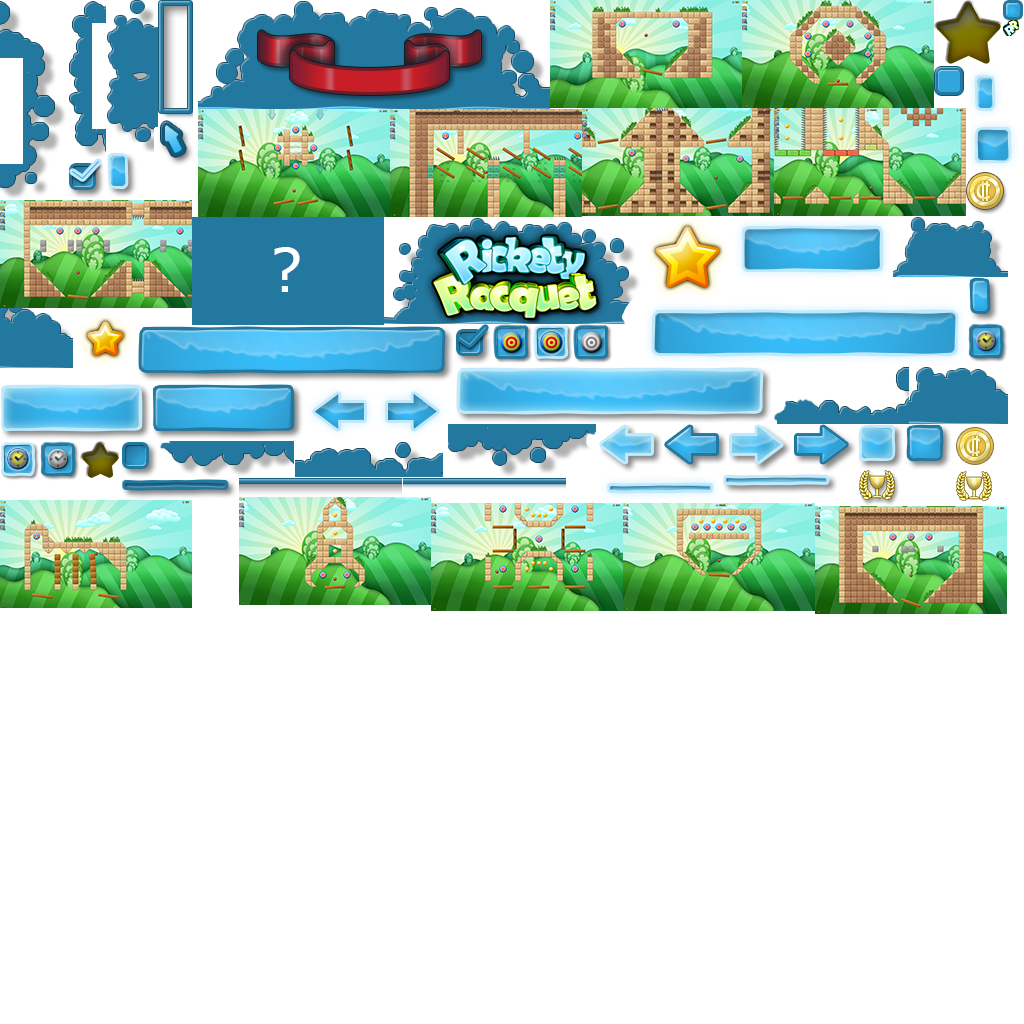
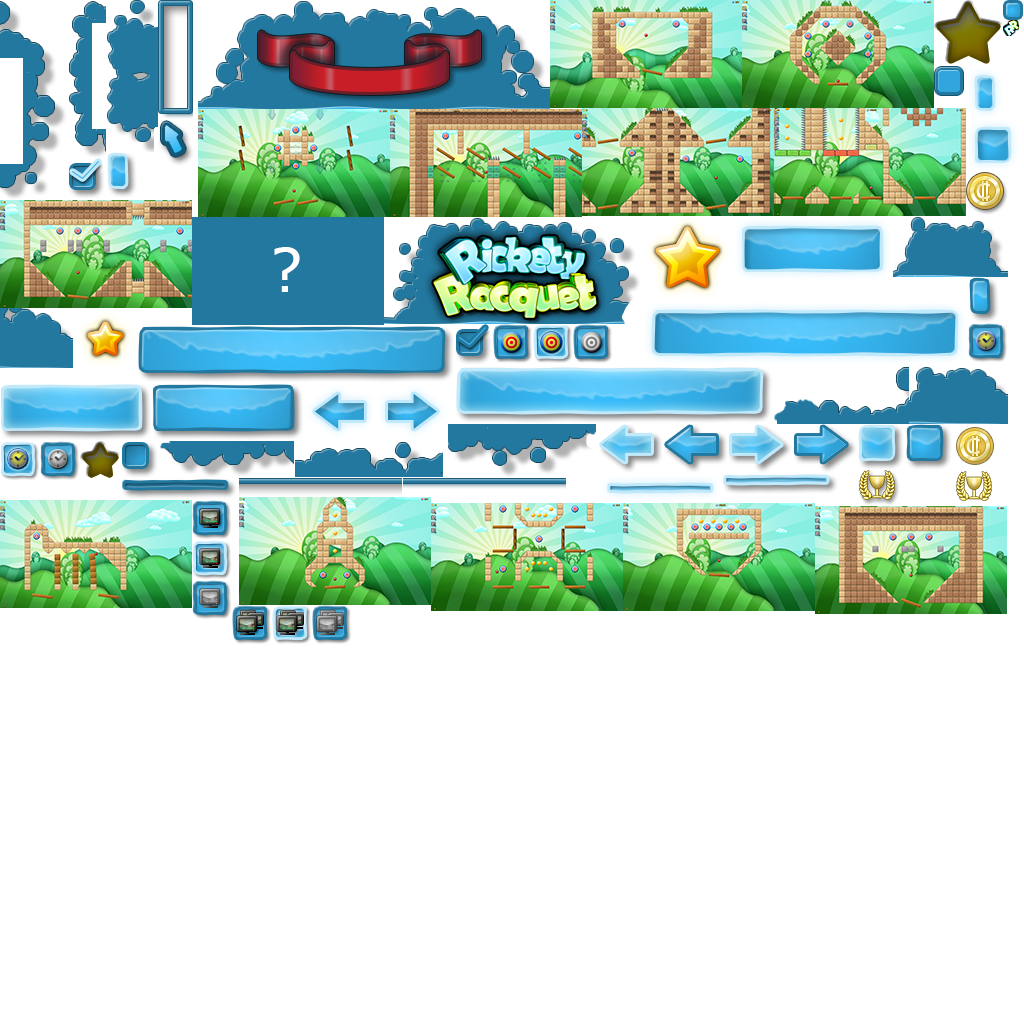
[248][Bug] New graphics for teeters, online/offline highscore using buttons similar to mode selection

Changed region(s): [[0.1875, 0.4688, 0.3438, 0.625]]

diff --git a/Source/FirstParty/AllInOneSolution/AllInOneSolution/Core/State/HighScoreState.cpp b/Source/FirstParty/AllInOneSolution/AllInOneSolution/Core/State/HighScoreState.cpp
@@ -43,7 +43,8 @@ void HighScoreState::onEnter(const EnterStateInformation* enterInformation, cons
     m_HUD.onEnter(m_highScoreStateInfo.m_level);
 
     m_onlineHighscore = false;
-    m_menu.getCheckbox(HighScoreMenu::CHECKBOX_GLOBAL_HIGHSCORE).setChecked(false);
+    m_menu.getCheckbox(HighScoreMenu::CHECKBOX_GLOBAL_HIGHSCORE).setChecked(m_onlineHighscore);
+    m_menu.getCheckbox(HighScoreMenu::CHECKBOX_LOCAL_HIGHSCORE).setChecked(!m_onlineHighscore);
 }
 
 StateChangeInformation HighScoreState::update(const float time)
@@ -77,12 +78,14 @@ StateChangeInformation HighScoreState::update(const float time)
 
     if(m_menu.getCheckbox(HighScoreMenu::CHECKBOX_GLOBAL_HIGHSCORE).getChecked() && !m_onlineHighscore)
     {
+        m_menu.getCheckbox(HighScoreMenu::CHECKBOX_LOCAL_HIGHSCORE).setChecked(false);
         m_onlineHighscore = true;
         clearHighScore();
         m_onlineHighscoreLoaderJob->run();
     }
-    else if(!m_menu.getCheckbox(HighScoreMenu::CHECKBOX_GLOBAL_HIGHSCORE).getChecked() && m_onlineHighscore)
+    else if(m_menu.getCheckbox(HighScoreMenu::CHECKBOX_LOCAL_HIGHSCORE).getChecked() && m_onlineHighscore)
     {
+        m_menu.getCheckbox(HighScoreMenu::CHECKBOX_GLOBAL_HIGHSCORE).setChecked(false);
         m_onlineHighscore = false;
         m_onlineHighscoreLoaderJob->reset();
         loadHighScore();

diff --git a/Source/FirstParty/AllInOneSolution/AllInOneSolution/Core/gui/HighScoreMenu.hpp b/Source/FirstParty/AllInOneSolution/AllInOneSolution/Core/gui/HighScoreMenu.hpp
@@ -12,7 +12,8 @@ public:
     static const int BUTTON_CLOSE = 0;
     static const int LABEL_PLACES = 11;
     static const int LABEL_POINTS = 21;
-    static const int CHECKBOX_GLOBAL_HIGHSCORE = 26;
+    static const int CHECKBOX_LOCAL_HIGHSCORE = 30;
+    static const int CHECKBOX_GLOBAL_HIGHSCORE = 31;
     static const int LABEL_LOADING = 27;
 
     HighScoreMenu(const sf::Vector2f& position, sf::RenderWindow& screen, ResourceManager& resourceManager);
